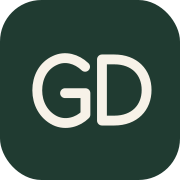
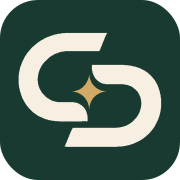
GoodDiner V7.5: monogramma GD scelto, SVG e icone iPhone/PWA

diff --git a/index.html b/index.html
@@ -10,7 +10,7 @@
 <meta name="description" content="GoodDiner: la reputazione dei clienti nella ristorazione. Anteprima dimostrativa per ospiti e ristoratori.">
 <link rel="manifest" href="/manifest.webmanifest">
 <link rel="icon" href="/icons/icon.svg" type="image/svg+xml">
-<link rel="apple-touch-icon" href="/icons/icon.svg">
+<link rel="apple-touch-icon" href="/icons/icon-180.png">
 <title>GoodDiner · La tua reputazione conta</title>
 <style>
 :root{--olive:#28331b;--olive2:#40502b;--cream:#f8f3ea;--paper:#fffcf7;--line:#e7dccc;--text:#302820;--muted:#786e60;--wine:#922e36;--wine2:#752129;--gold:#bb914d;--soft:#eee5d7;--shadow:0 6px 22px rgba(57,46,31,.06);--serif:Georgia,'Times New Roman',serif;font-family:-apple-system,BlinkMacSystemFont,'Segoe UI',sans-serif;color:var(--text)}
@@ -299,6 +299,11 @@ button,a{touch-action:manipulation;-webkit-tap-highlight-color:transparent}
 .v73-app .brand-symbol svg{stroke-width:2.1}
 .v73-app .welcome-image b{font:600 45px/1 system-ui,sans-serif;letter-spacing:-4px}
 .v73-app .cover-motif b{letter-spacing:-5px}
+/* GoodDiner V7.5 · monogramma GD selezionato */
+.v73-app .brand-symbol{border:0;background:transparent;border-radius:0}
+.v73-app .brand-symbol svg{color:#F6EFE2;stroke:none;max-width:100%;max-height:100%}
+.v73-app .mast-name .brand-symbol svg{color:#F6EFE2}
+.v73-app .welcome-mark svg{stroke:none}
 </style>
 </head>
 <body>
@@ -306,7 +311,7 @@ button,a{touch-action:manipulation;-webkit-tap-highlight-color:transparent}
 <script>
 'use strict';
 const ICON={logo:'<path d="M10.2 7.5C8.8 6.2 7 6 5.5 6.9 4.1 7.8 3.4 9.6 3.4 12s.7 4.2 2.1 5.1c1.5.9 3.4.5 4.7-.7v-3.6H7.6"/><path d="M13.2 6.5h1.7c3.4 0 5.4 2.2 5.4 5.5s-2 5.5-5.4 5.5h-1.7z"/>',home:'<path d="m3 11 9-8 9 8v9H3z"/><path d="M9 20v-7h6v7"/>',reviews:'<path d="M4 5h16v12H9l-5 4z"/><path d="M8 9h8M8 13h6"/>',gift:'<rect x="3" y="9" width="18" height="12" rx="1"/><path d="M12 9v12M3 13h18M12 9C5 9 5 3 8 3c2 0 4 3 4 6Zm0 0c7 0 7-6 4-6-2 0-4 3-4 6Z"/>',user:'<circle cx="12" cy="8" r="4"/><path d="M4 21c0-5 3-7 8-7s8 2 8 7"/>',users:'<circle cx="9" cy="8" r="3"/><circle cx="18" cy="9" r="2"/><path d="M2 20c0-5 3-7 7-7s7 2 7 7zm14-6c3 0 6 2 6 6"/>',pen:'<path d="M4 20l4-.5L20 7l-4-4L4 15zM13.5 5.5l4 4"/>',settings:'<circle cx="12" cy="12" r="3"/><path d="m19 14 2 1-2 4-2-1a8 8 0 0 1-3 1l-.4 2h-4l-.4-2a8 8 0 0 1-3-1l-2 1-2-4 2-1a8 8 0 0 1 0-4l-2-1 2-4 2 1a8 8 0 0 1 3-1l.4-2h4l.4 2a8 8 0 0 1 3 1l2-1 2 4-2 1a8 8 0 0 1 0 4Z"/>',search:'<circle cx="10" cy="10" r="7"/><path d="m15 15 6 6"/>',award:'<circle cx="12" cy="9" r="6"/><path d="m8 15-1 7 5-3 5 3-1-7"/>',copy:'<rect x="8" y="8" width="12" height="13" rx="2"/><path d="M16 8V5a2 2 0 0 0-2-2H5a2 2 0 0 0-2 2v11a2 2 0 0 0 2 2h3"/>',arrow:'<path d="m9 18 6-6-6-6"/>',lock:'<rect x="5" y="10" width="14" height="11" rx="2"/><path d="M8 10V7a4 4 0 0 1 8 0v3"/>',check:'<path d="m4 12 5 5L20 6"/>',calendar:'<rect x="3" y="5" width="18" height="16" rx="2"/><path d="M7 3v4M17 3v4M3 10h18"/>',info:'<circle cx="12" cy="12" r="9"/><path d="M12 11v6M12 7h.01"/>',star:'<path d="m12 2.8 2.83 5.75 6.34.92-4.59 4.47 1.08 6.32L12 17.8l-5.66 2.98 1.08-6.32-4.59-4.47 6.34-.92z"/>',logout:'<path d="M13 3H4v18h9M17 16l4-4-4-4M9 12h12"/>'};
-const icon=(name,size=22)=>`<svg width="${size}" height="${size}" viewBox="0 0 24 24" fill="none" stroke="currentColor" stroke-width="1.75" stroke-linecap="round" stroke-linejoin="round" aria-hidden="true">${ICON[name]||ICON.info}</svg>`;
+const icon=(name,size=22)=>name==='logo'?`<svg width="${size}" height="${size}" viewBox="0 0 512 512" aria-hidden="true"><g fill="currentColor"><path d="M261.3,184.6L261.3,197.3L262,198.1L262,201.9L262.8,202.6L263.5,207.9L266.5,213.9L266.5,215.4L271.8,223.7L277.8,229.7L285.3,234.9L292.8,238L298.9,238.7L299.6,239.5L350,239.5L350.8,240.2L356,240.2L356.8,241L362.8,241.7L363.5,242.5L367.3,243.2L369.6,244.7L371.1,244.7L377.8,248.5L384.6,254.5L385.3,254.5L392.1,262L394.4,266.5L395.9,268L396.6,271L398.9,274.8L400.4,282.3L401.1,283.1L401.1,287.6L401.9,288.3L401.9,299.6L401.1,300.4L401.1,304.9L400.4,305.6L400.4,308.6L398.9,311.6L398.1,316.2L393.6,325.9L387.6,335L381.6,341L381.6,341.7L374.8,347.7L367.3,353L356.8,358.3L355.3,358.3L350,360.5L344.7,361.3L344,362L341,362L340.2,362.8L332.7,362.8L332,363.5L207.1,363.5L204.9,368L203.4,369.6L203.4,371.1L200.4,376.3L200.4,377.8L198.8,380.1L198.8,381.6L197.3,383.8L195.8,389.1L193.6,392.9L193.6,394.4L192.1,396.6L192.1,398.1L190.6,400.4L189.1,405.6L186.8,409.4L186.8,410.9L183.1,416.9L187.6,416.9L188.3,417.7L189.8,416.9L190.6,417.7L334.2,417.7L335,416.9L346.2,416.9L347,416.2L351.5,416.2L352.3,415.4L359.8,414.7L360.5,413.9L368.8,412.4L374.1,410.2L376.3,410.2L397.4,400.4L398.9,398.9L401.1,398.1L407.9,393.6L413.9,388.4L414.7,388.4L419.2,383.8L419.9,383.8L426.7,377.1L426.7,376.3L431.2,371.8L439.5,360.5L444,351.5L445.5,350L445.5,348.5L450.8,338L450.8,336.5L453.8,328.9L453.8,326.7L455.3,323.7L456,317.7L456.8,316.9L457.5,307.9L458.3,307.1L458.3,280.1L457.5,279.3L456.8,269.5L456,268.8L453.8,257.5L453,256.8L450.8,248.5L449.3,246.2L449.3,244.7L442.5,231.9L438,225.2L427.5,213.1L426.7,213.1L421.4,207.9L411.7,201.1L395.1,192.8L393.6,192.8L386.1,189.8L380.8,189.1L380.1,188.3L377.1,188.3L373.3,186.8L368.8,186.8L368,186.1L363.5,186.1L362.8,185.3L353.8,185.3L353,184.6Z"/><path d="M132.7,106.4L125.2,110.1L123.6,111.6L118.4,113.9L107.1,121.4L101.1,126.7L100.3,126.7L95.1,131.9L94.3,131.9L86.8,139.4L86.8,140.2L79.3,148.5L71,160.5L62,178.5L62,180L60.5,182.3L60.5,183.8L56.7,193.6L56,199.6L55.2,200.4L55.2,203.4L54.5,204.1L54.5,207.9L53.7,208.6L53.7,213.1L53,213.9L53,239.5L53.7,240.2L53.7,245.5L54.5,246.2L54.5,250L56,253.7L56,256.8L56.7,257.5L57.5,262L59.7,267.3L59.7,269.5L61.2,271.8L62.7,277.1L68.8,289.1L70.3,290.6L71,292.8L75.5,299.6L80.8,305.6L80.8,306.4L93.6,319.2L108.6,329.7L128.2,338.7L132.7,339.5L138.7,341.7L145.5,342.5L146.2,343.2L156,344L156.7,344.7L167.3,344.7L168,345.5L232.7,345.5L233.4,344.7L244.7,344.7L245.5,345.5L247,345.5L247.7,344.7L249.2,344.7L249.2,331.2L248.5,330.4L248.5,326.7L247.7,325.9L247.7,323.7L247,322.9L245.5,316.9L241,308.6L238,305.6L238,304.9L231.2,298.9L226.7,296.6L225.2,295.1L217.6,292.1L210.9,291.3L210.1,290.6L164.3,290.6L163.5,289.8L159.7,289.8L159,289.1L153.7,288.3L153,287.6L149.2,286.8L147,285.3L145.5,285.3L131.2,276.3L119.1,263.5L111.6,250L111.6,248.5L109.4,243.2L108.6,238L107.9,237.2L107.9,230.4L107.1,229.7L107.1,222.2L107.9,221.4L107.9,215.4L108.6,214.6L108.6,211.6L109.4,210.9L110.1,205.6L110.9,204.9L111.6,201.1L113.1,198.8L113.1,197.3L119.1,186.1L125.2,177.8L140.9,162.8L147.7,158.2L150,157.5L151.5,156L157.5,153L162.8,151.5L165,150L166.5,150L169.5,148.5L171.8,148.5L172.5,147.7L174.8,147.7L175.5,147L183.8,146.2L184.6,145.5L282.3,145.5L285.3,140.2L286.8,134.9L289.1,131.2L289.1,129.7L290.6,127.4L291.3,123.6L293.6,119.9L293.6,118.4L295.1,116.1L295.1,114.6L296.6,112.4L298.1,107.1L304.9,93.6L185.3,93.6L184.6,94.3L176.3,94.3L175.5,95.1L162.8,96.6L162,97.3L153.7,98.8L150.7,100.3L148.5,100.3L146.2,101.8L144,101.8L141.7,103.3L140.2,103.3L137.9,104.8Z"/></g><path fill="#D2A965" d="M253.5,210.7L252.9,217.8L249.7,228.2L243.2,239.8L235.4,248.2L227,254L221.2,256.6L209.6,259.9L203.1,259.9L203.1,260.5L208.9,260.5L212.1,261.8L214.7,261.8L222.5,264.4L232.8,270.2L240.6,277.3L246.4,285.7L249.7,292.2L252.9,303.2L253.5,311L254.2,309.7L254.8,301.3L257.4,292.8L261.9,283.8L267.1,276.7L274.2,270.2L285.9,263.7L294.3,261.2L302.7,260.5L304,259.9L297.5,259.9L296.9,259.2L289.1,257.9L285.2,256.6L273.6,250.2L264.5,241.1L260,234L255.5,222.4Z"/></svg>`:`<svg width="${size}" height="${size}" viewBox="0 0 24 24" fill="none" stroke="currentColor" stroke-width="1.75" stroke-linecap="round" stroke-linejoin="round" aria-hidden="true">${ICON[name]||ICON.info}</svg>`;
 // Compatibilita: chiavi demo storiche non rinominate, cosi i dati locali restano visibili.
 const KEY='buontavolo-preview-v4',WELCOME='buontavolo-preview-onboard-v4',N='La Quercia';
 const MAX_STARS=10, POSITIVE_MIN=8;

diff --git a/account.html b/account.html
@@ -9,6 +9,7 @@
 <meta name="description" content="GoodDiner · profilo clienti e spazio ristoratori">
 <meta name="robots" content="noindex,nofollow">
 <link rel="icon" href="/icons/icon.svg" type="image/svg+xml">
+<link rel="apple-touch-icon" href="/icons/icon-180.png">
 <link rel="manifest" href="/manifest.webmanifest">
 <title>Il tuo spazio · GoodDiner</title>
 <style>

diff --git a/sw.js b/sw.js
@@ -1,4 +1,4 @@
-const CACHE='gooddiner-demo-v74';
+const CACHE='gooddiner-demo-logo-v75';
 const ASSETS=['/','/index.html','/manifest.webmanifest','/icons/icon.svg'];
 self.addEventListener('install',event=>{
   event.waitUntil(caches.open(CACHE).then(cache=>cache.addAll(ASSETS)));

diff --git a/README.md b/README.md
@@ -1,3 +1,9 @@
+# GoodDiner V7.5 · Nuovo simbolo GD
+
+Il marchio provvisorio è stato sostituito dalla **terza proposta scelta dall'utente**: due forme GD intrecciate con un piccolo accento oro. I file SVG `icons/mark.svg` e `icons/mark-light.svg` sono vettoriali a colori piatti, adattabili allo sfondo. `icons/icon.svg`, le icone PNG 180/192/512, l'intestazione desktop/mobile, l'onboarding e l'Apple Touch Icon sono coerenti col nuovo segno. La cache offline è aggiornata e i test coprono il marchio.
+
+**Solo demo**, senza backend e senza autenticazione reale. La disponibilità legale di GoodDiner come marchio resta da verificare.
+
 # GoodDiner V7.4 · Nuova identità
 
 **Nome scelto:** GoodDiner. **Stato:** demo frontend; nessun database o autenticazione reale. **Verifica legale:** il nome non è ancora stato definitivamente liberato da un controllo professionale sui marchi; non presentarlo come registrato o esclusivo.
